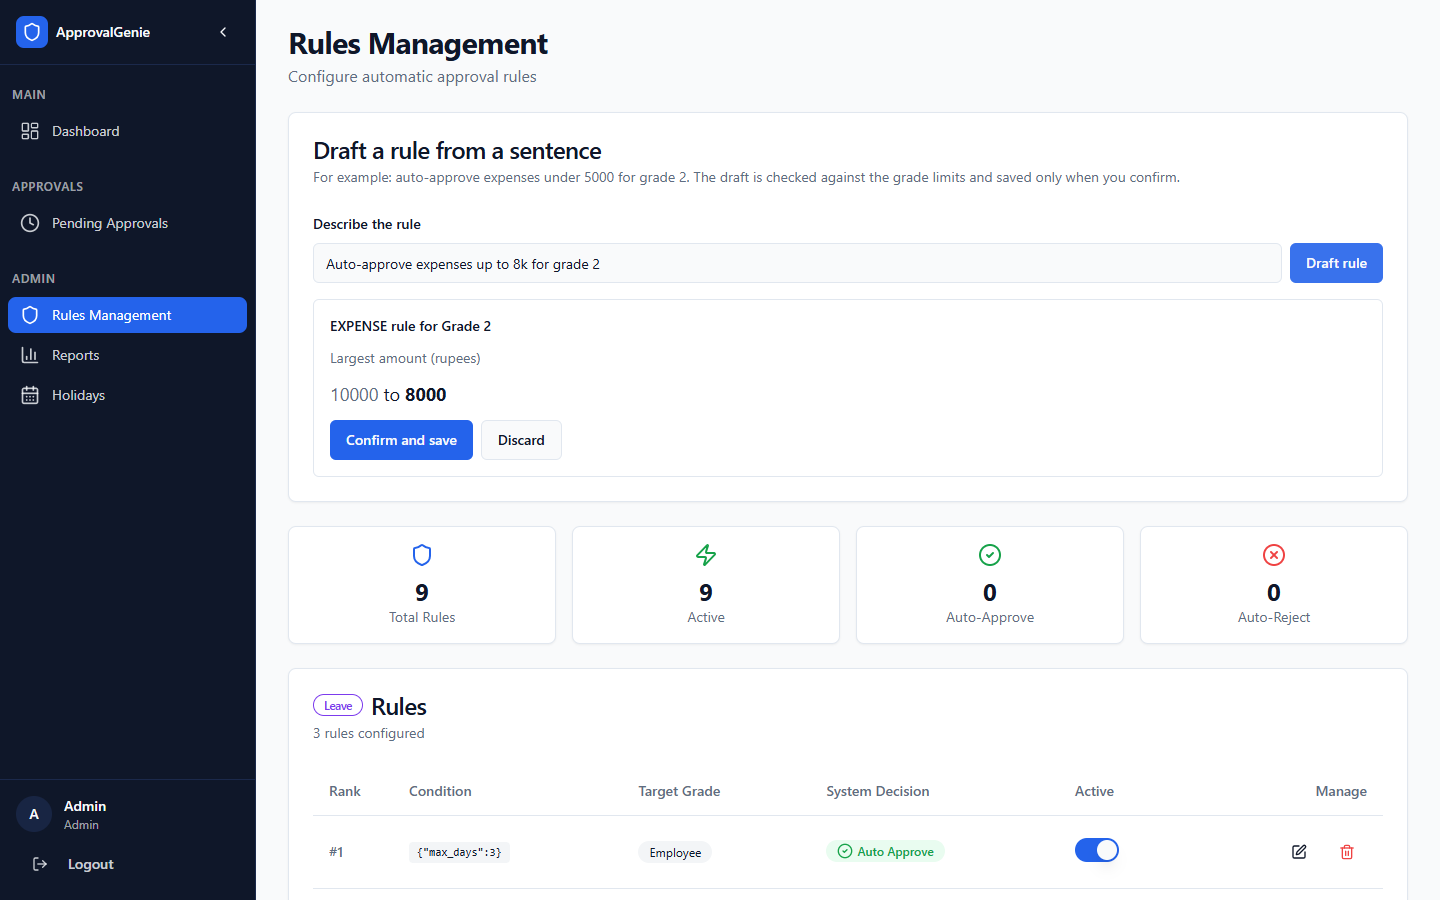
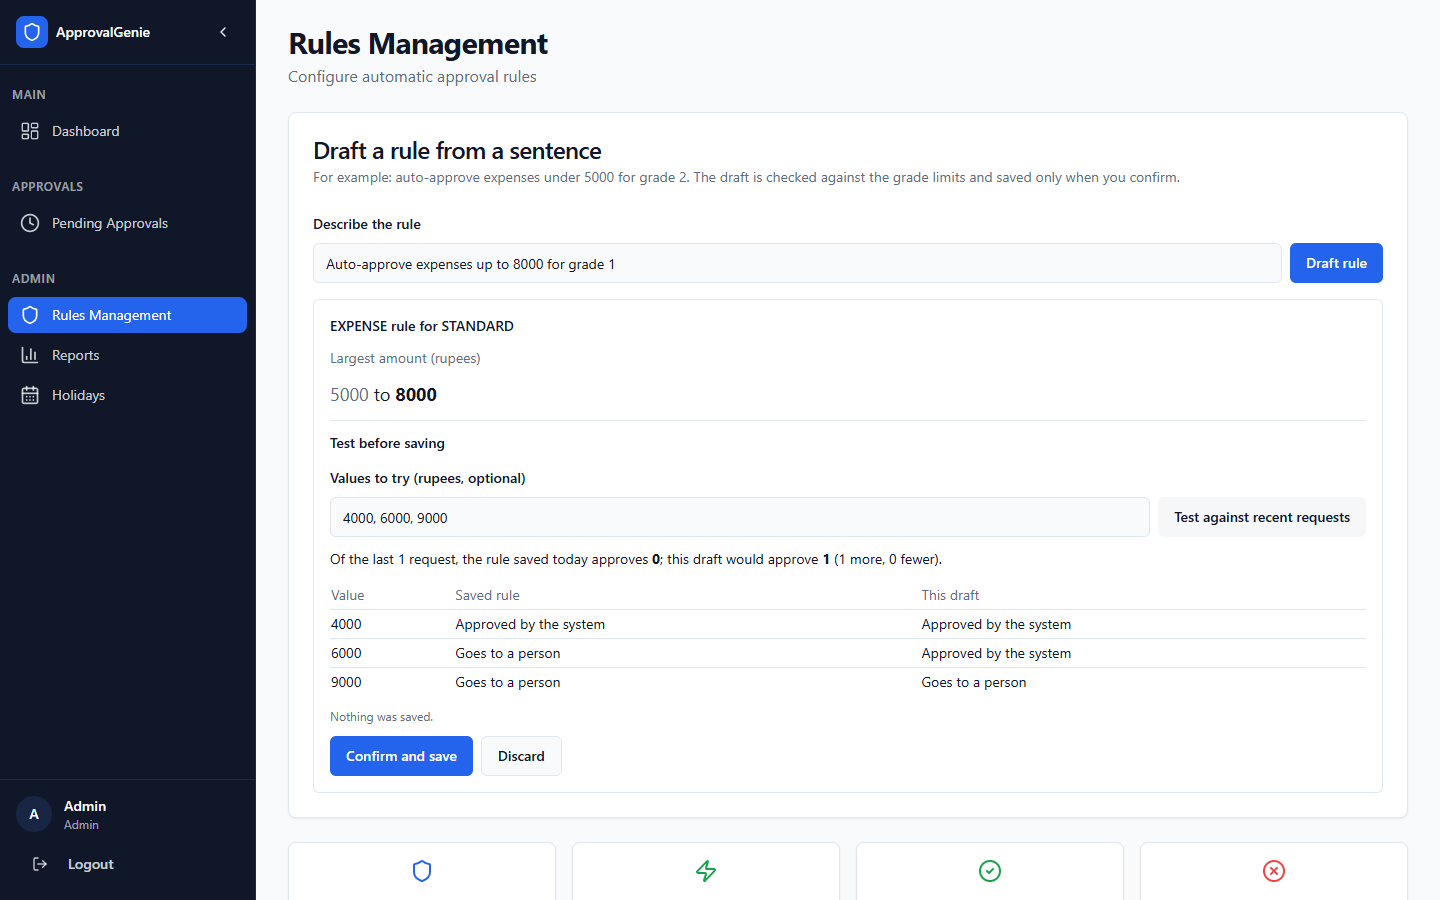
README: rule draft screenshot retaken from the live app with the dry-run step (#12)

diff --git a/README.md b/README.md
@@ -100,7 +100,7 @@ whatever a visitor changes with the admin account is undone. You can also sign u
     <td width="50%"><img src="docs/images/admin-rules.png" alt="Admin rules management with the rule drafting box above the rules"><p align="center"><sub>Admin: one rule per request type and grade, with the drafting box on top</sub></p></td>
   </tr>
   <tr>
-    <td colspan="2"><img src="docs/images/admin-rule-draft.png" alt="A drafted rule shown as a before and after, with Confirm and save and Discard buttons"><p align="center"><sub>Admin: a sentence becomes a draft (expense limit for grade 2, 10000 to 8000) that is saved only on Confirm</sub></p></td>
+    <td colspan="2"><img src="docs/images/admin-rule-draft.png" alt="A drafted rule shown as a before and after, a Test before saving step with three typed values and their decisions, and Confirm and save and Discard buttons"><p align="center"><sub>Admin: a sentence becomes a draft (expense limit for grade 1, 5000 to 8000); Test before saving decides typed values and recent requests under the saved rule and the draft; nothing is saved until Confirm</sub></p></td>
   </tr>
   <tr>
     <td colspan="2"><img src="docs/images/api-docs.png" alt="Swagger UI at /api/docs listing the operations, auth and leave endpoints of the API"><p align="center"><sub>The API reference at /api/docs, served by the app and checked against its routes</sub></p></td>
